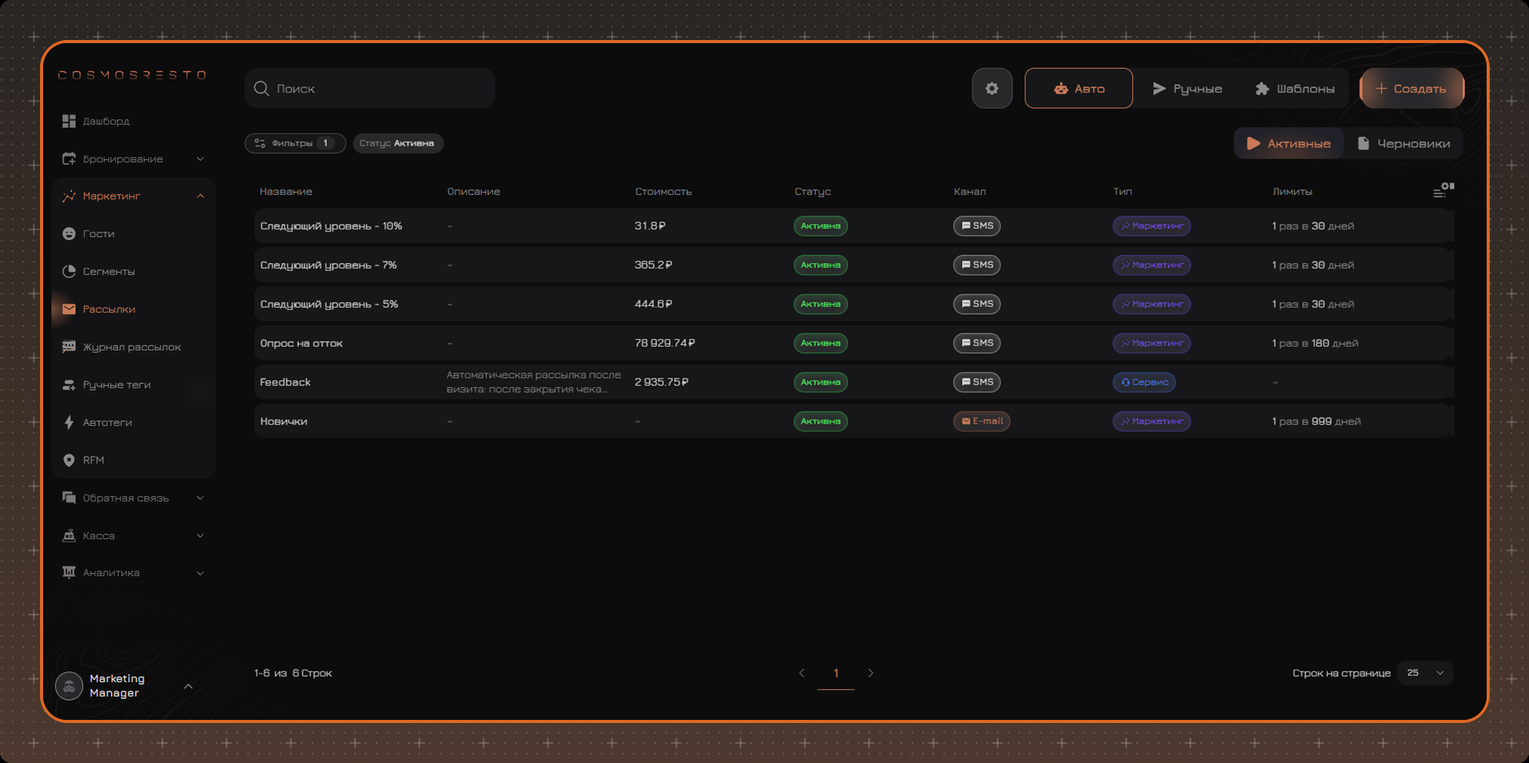
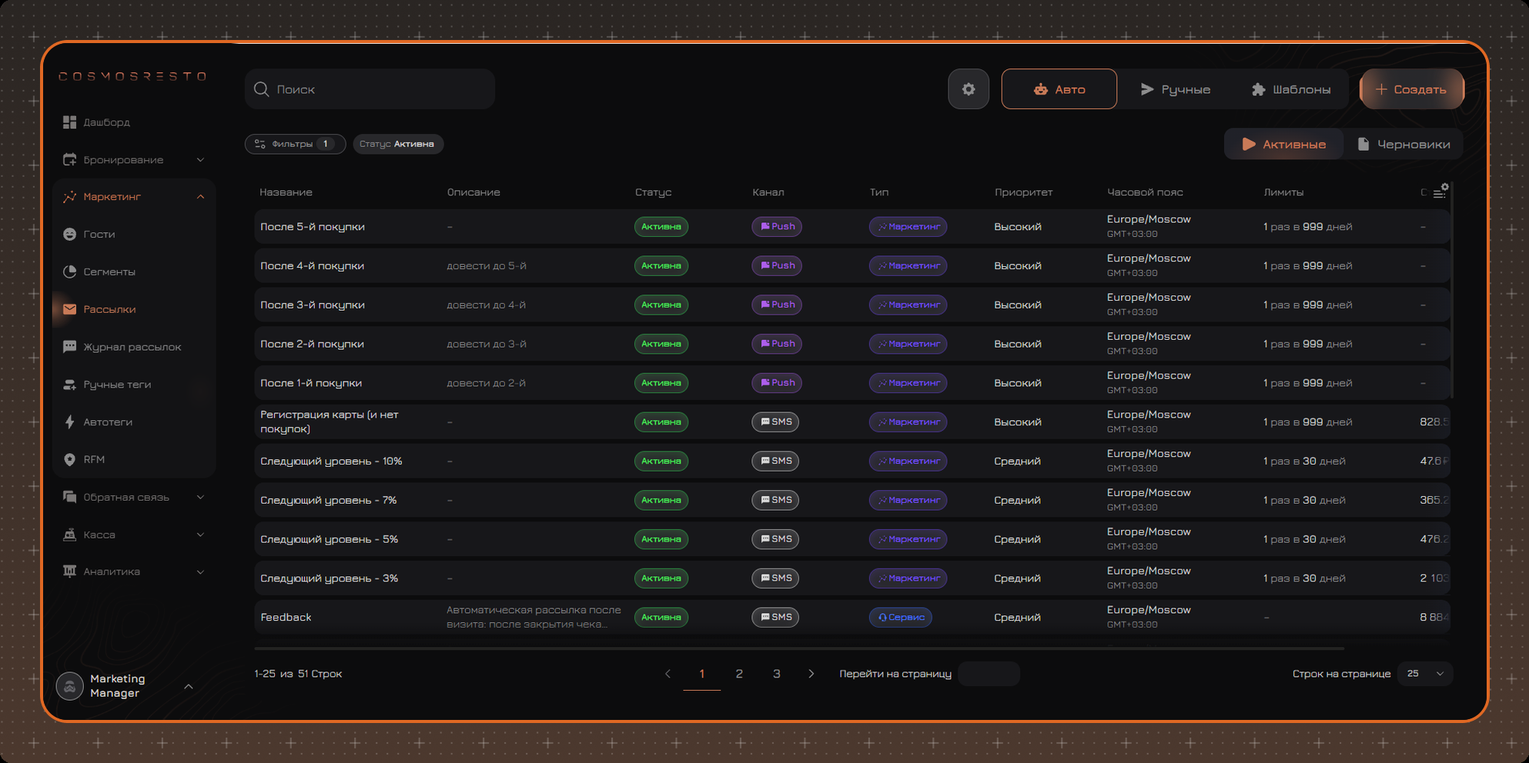
Marketing: рассылки - приоритет отправки, часовой пояс, отложенная отправка ручных рассылок RU и EN (CIMP-324, CIMP-325)

diff --git a/content/ru/marketing/mailings/info.md b/content/ru/marketing/mailings/info.md
@@ -74,41 +74,58 @@ updatedAt: 2026-08-28
 - Рассылки с **Экстра приоритетом** отправляются без учета общих ограничений
 
 
+## Приоритет отправки
+
+При создании рассылки в поле **Приоритет** выбирается **Высокий**, **Средний** или **Низкий** приоритет. По умолчанию установлен **Средний**.
+
+Приоритет определяет, какую долю отправок получает рассылка, если одновременно отправляются несколько рассылок одного канала. Сообщения уходят пачками: раз в 2 минуты по каждому каналу отправляется пачка, размер которой зависит от канала. В каждой пачке 70% мест отводится рассылкам с высоким приоритетом, 20% - со средним и 10% - с низким. Поэтому рассылки с низким приоритетом не ждут окончания остальных, а отправляются параллельно, только медленнее. Если сообщений какого-то уровня меньше, чем его доля, свободные места достаются сообщениям с более высоким приоритетом. Приоритет учитывается одинаково для автоматических и ручных рассылок.
+
+Например, идет большая ручная Push-рассылка с низким приоритетом, и в это время срабатывает автоматическая Push-рассылка с высоким приоритетом. Сообщения автоматической рассылки занимают большую часть каждой пачки и уходят быстрее, а ручная рассылка продолжает отправляться параллельно.
+
+Особенности:
+
+- Приоритет сравнивается только между рассылками одного канала. Например, SMS-рассылка не влияет на очередь Push-рассылок.
+- Приоритет не влияет на ограничения. Чтобы рассылка отправлялась без учета общих ограничений, используется **Экстра приоритет**.
+- У запущенной ручной рассылки изменить приоритет невозможно.
+- Если изменить приоритет автоматической рассылки, новое значение применяется только к новым отправкам.
+
+
 ## Настройки таблицы
 
 Для изменения набора отображаемых колонок нажмите кнопку настройки таблицы в правом верхнем углу.
 
 В открывшейся панели можно:
 
-✔ Выбрать отображаемые колонки  
-✔ Изменить порядок колонок — перетащите колонку в списке за значок слева от ее названия  
-✔ Закрепить нужные колонки — нажмите на значок булавки справа от названия колонки. Закрепленные колонки перемещаются в начало таблицы  
-✔ Вернуть настройки по умолчанию с помощью команды **Сбросить к начальным значениям**
+- Выбрать отображаемые колонки.
+- Изменить порядок колонок - перетащите колонку в списке за значок слева от ее названия.
+- Закрепить нужные колонки - нажмите на значок булавки справа от названия колонки. Закрепленные колонки перемещаются в начало таблицы.
+- Вернуть настройки по умолчанию с помощью команды **Сбросить к начальным значениям**.
 
+[[gallery gap=12 layout=carousel]]
+![mailings](/ru/images/mailings/column-auto.png)
 ![mailings](/ru/images/mailings/column.png)
+[[/gallery]]
 
 [[delimiter rows=1]]
 
-В таблице рассылок отображаются следующие колонки:
+По умолчанию в таблице отображаются следующие колонки:
 
-- **Название** 
-- **Описание** 
-- **Статус** — текущее состояние рассылки. Автоматическая рассылка может быть **Активной** или **На паузе**, ручная — **В процессе** или **Завершена**. У черновиков статуса нет
-- **Тип рассылки** — **Массовая**, **Маркетинг** или **Сервис**
-- **Канал связи** — способ отправки сообщения
-- **Локации & группы** 
-- **Дата создания** 
-- **Автор** 
-- **Последнее обновление** 
-- **Стоимость** — сколько стоили все отправки рассылки: у автоматической рассылки за все время работы, у ручной — сумма всех отправок. Стоимость считается только для SMS, для других каналов отображается прочерк. Стоимость рассылки также отображается на странице рассылки рядом с ее названием
+- **Название**
+- **Описание**
+- **Статус** - текущее состояние рассылки. Автоматическая рассылка может быть **Активной** или **На паузе**, ручная - **В процессе**, **Завершена** или **Остановлена**. У черновиков статуса нет.
+- **Кол-во гостей** - только для ручных рассылок. Количество гостей, отобранных по условиям рассылки в момент запуска.
+- **Канал** - способ отправки сообщения.
+- **Тип** - **Массовая**, **Маркетинг** или **Сервис**.
+- **Приоритет** - **Высокий**, **Средний** или **Низкий**, подробнее в разделе **[Приоритет отправки](#приоритет-отправки)**.
+- **Часовой пояс** - часовой пояс, по которому работает расписание рассылки. Если автоматическая рассылка работает по часовому поясу локации, в которой произошло событие, отображается **Часовой пояс события**.
+- **Лимиты** - только для автоматических рассылок. Собственные ограничения рассылки в формате «N раз в N дней». Если ограничения не настроены, отображается прочерк.
+- **Стоимость** - сколько стоили все отправки рассылки: у автоматической рассылки за все время работы, у ручной - сумма всех отправок. Стоимость считается только для SMS, для других каналов отображается прочерк. Стоимость рассылки также отображается на странице рассылки рядом с ее названием.
 
-Только для автоматических рассылок:
+Дополнительно можно включить следующие колонки. При включении они отображаются в таблице в соответствии с порядком колонок в настройках:
 
-- **Лимиты рассылки** — собственные ограничения рассылки в формате «N раз в N дней 1 гостю». Если ограничения не настроены, отображается прочерк
-
-Только для ручных рассылок:
-
-- **Охват гостей** — количество гостей, отобранных по условиям рассылки в момент запуска
+- **Автор**
+- **Дата создания**
+- **Последнее обновление**
 
 > **Примечание.** Настройки таблицы сохраняются после обновления страницы. После выхода из системы настройки сбрасываются.
 

diff --git a/content/en/marketing/mailings/info.md b/content/en/marketing/mailings/info.md
@@ -73,41 +73,58 @@ To configure general limits on the number of messages sent to each guest, click 
 - Mailings with **Extra Priority** are sent without taking the general limits into account
 
 
+## Sending Priority
+
+When creating a mailing, select **High**, **Medium**, or **Low** in the **Priority** field. The default value is **Medium**.
+
+The priority determines what share of sending a mailing gets when several mailings of the same channel are being sent at the same time. Messages are sent in batches: every 2 minutes, one batch is sent for each channel, and the batch size depends on the channel. In each batch, 70% of the places are reserved for high-priority mailings, 20% for medium-priority mailings, and 10% for low-priority mailings. That is why low-priority mailings do not wait for the others to finish - they are sent in parallel, just more slowly. If a priority level has fewer messages than its share, the free places go to messages with a higher priority. The priority works the same way for Auto and Manual mailings.
+
+For example, a large low-priority Manual Push mailing is being sent, and at the same time a high-priority Auto Push mailing is triggered. Messages of the Auto mailing take most of each batch and are sent faster, while the Manual mailing keeps being sent in parallel.
+
+Specifics:
+
+- Priority is compared only between mailings of the same channel. For example, an SMS mailing does not affect the Push mailing queue.
+- Priority does not affect limits. To send a mailing without taking the general limits into account, use **Extra Priority**.
+- The priority of a started Manual mailing cannot be changed.
+- If you change the priority of an Auto mailing, the new value applies only to new messages.
+
+
 ## Table Settings
 
 To change the displayed columns, click the table settings button in the upper-right corner.
 
 In the panel that opens, you can:
 
-✔ Select the columns to display  
-✔ Change the column order — drag a column in the list by the icon to the left of its name  
-✔ Pin the required columns — click the pin icon to the right of the column name. Pinned columns move to the beginning of the table  
-✔ Restore the default settings using **Reset to Default**
+- Select the columns to display.
+- Change the column order - drag a column in the list by the icon to the left of its name.
+- Pin the required columns - click the pin icon to the right of the column name. Pinned columns move to the beginning of the table.
+- Restore the default settings using **Reset to Default**.
 
+[[gallery gap=12 layout=carousel]]
+![Mailings](/en/images/mailings/column-auto-en.png)
 ![Mailings](/en/images/mailings/column-en.png)
+[[/gallery]]
 
 [[delimiter rows=1]]
 
-The mailing table contains the following columns:
+By default, the table displays the following columns:
 
 - **Name**
 - **Description**
-- **Status** — the current status of the mailing. An Auto mailing can be **Active** or **On pause**, while a Manual mailing can be **In progress** or **Finished**. Draft mailings do not have a status
-- **Type** — **Mass**, **Marketing**, or **Service**
-- **Channel** — the channel used to send the message
-- **Locations & Groups**
-- **Created At**
+- **Status** - the current status of the mailing. An Auto mailing can be **Active** or **On pause**, while a Manual mailing can be **In progress**, **Finished** or **Stopped**. Draft mailings do not have a status.
+- **Guest Amount** - for Manual mailings only. The number of guests selected based on the mailing conditions at the time the mailing is launched.
+- **Channel** - the channel used to send the message.
+- **Type** - **Mass**, **Marketing**, or **Service**.
+- **Priority** - **High**, **Medium**, or **Low**, see **[Sending Priority](#sending-priority)**.
+- **Timezone** - the timezone used by the mailing schedule. If an Auto mailing follows the timezone of the location where the event occurred, **Trigger Event Timezone** is displayed.
+- **Limits** - for Auto mailings only. Individual mailing limits in the format `N times per N days`. If no limits are configured, a dash is displayed.
+- **Cost** - the total cost of all messages sent by the mailing: for an Auto mailing, for the whole time it has been running; for a Manual mailing, the sum of all messages sent. The cost is calculated only for SMS; for other channels, a dash is displayed. The mailing cost is also shown on the mailing page next to its name.
+
+The following columns can also be enabled. When enabled, they are displayed in the table according to the column order in the settings:
+
 - **Author**
+- **Created At**
 - **Last Update**
-- **Cost** — the total cost of all messages sent by the mailing: for an Auto mailing, for the whole time it has been running; for a Manual mailing, the sum of all messages sent. The cost is calculated only for SMS; for other channels, a dash is displayed. The mailing cost is also shown on the mailing page next to its name
-
-For Auto mailings only:
-
-- **Limits** — individual mailing limits in the format `N times per N days to 1 guest`. If no limits are configured, a dash is displayed
-
-For Manual mailings only:
-
-- **Guest Amount** — the number of guests selected based on the mailing conditions at the time the mailing is launched
 
 > **Note.** Table settings are saved after the page is refreshed. The settings are reset after you log out.
 

diff --git a/content/ru/marketing/mailings/create-manual.md b/content/ru/marketing/mailings/create-manual.md
@@ -30,10 +30,17 @@ updatedAt: 2026-08-28
   - **Один канал** - сообщение отправляется по одному выбранному каналу
   - **Каскад** - сообщение отправляется по нескольким каналам по очереди. Если выбран каскад, после основных деталей появляется шаг **Каскад**, где выбираются каналы и порядок доставки. Как работает каскад - в статье **[Создание автоматической рассылки](https://wiki.cosmosresto.ru/ru/marketing/mailings/create-auto/#каскад)**
 - **Экстра приоритет** — включите, если рассылка должна отправляться без учета общих лимитов
+- **Приоритет** - доля отправок, которую получает рассылка, если одновременно отправляются несколько рассылок, подробнее в статье **[Информация о рассылках](/ru/marketing/mailings/info/#приоритет-отправки)**. После запуска приоритет изменить невозможно.
 - **Название**
+- **Часовой пояс** - по этому часовому поясу работает расписание отложенной отправки.
 - **Сегменты**
 - **Описание**
 - **Фильтры**
+- **Отложенная отправка** - включите, чтобы сообщения отправлялись не сразу после запуска:
+  - **Простая задержка** - отправка начинается через заданный интервал после запуска рассылки.
+  - **Расписание** - сообщения отправляются только в выбранные дни недели и временной интервал.
+
+Отложенная отправка полезна для больших рассылок, отправка которых может занять несколько часов. При выборе **Расписание** сообщения, которые не успели отправиться до конца разрешенного интервала, отправляются в следующий разрешенный интервал, а не ночью. Расписание работает по часовому поясу, выбранному в поле **Часовой пояс**. Он указан в подсказке под расписанием.
 
 В нижней части страницы отображается список гостей, соответствующих выбранным сегментам и фильтрам. После изменения сегментов или фильтров нажмите **Обновить**, чтобы обновить список и количество гостей.
 
@@ -75,7 +82,7 @@ updatedAt: 2026-08-28
 После запуска настройки ручной рассылки становятся недоступны для редактирования.
 [[/info]]
 
-Рассылка перемещается из **Черновиков** в **Активные** и получает статус **В процессе**.
+Рассылка перемещается из **Черновиков** в **Активные** и получает статус **В процессе**. Если включена отложенная отправка, сообщения отправляются после заданной задержки или в разрешенное расписанием время.
 
 Когда все отправки получат финальный статус, статус рассылки изменится на **Завершена**. Количество доставленных сообщений при этом может отличаться от количества отправленных.
 

diff --git a/content/ru/marketing/mailings/create-auto.md b/content/ru/marketing/mailings/create-auto.md
@@ -31,7 +31,9 @@ updatedAt: 2026-08-28
   - **Один канал** - сообщение отправляется по одному выбранному каналу
   - **Каскад** - сообщение отправляется по нескольким каналам по очереди, подробнее в разделе **[Каскад](#каскад)**
 - **Экстра приоритет** — включите, если рассылка должна отправляться без учета общих лимитов
+- **Приоритет** - доля отправок, которую получает рассылка, если одновременно отправляются несколько рассылок, подробнее в статье **[Информация о рассылках](/ru/marketing/mailings/info/#приоритет-отправки)**.
 - **Название**   
+- **Часовой пояс** - по этому часовому поясу работает расписание отложенной отправки.
 - **Сегменты**  
 - **Описание**  
 - **Установить ограничения**  
@@ -59,6 +61,8 @@ updatedAt: 2026-08-28
 
 При выборе **Расписание** укажите дни недели и время, в которое разрешена отправка. Если триггер сработал за пределами этого интервала, отправка переносится на ближайшее доступное время.
 
+Расписание работает по часовому поясу, выбранному в поле **Часовой пояс** в основных деталях. Он указан в подсказке под расписанием.
+
 ### Триггеры
 
 ![triggers](/ru/images/mailings/auto-triggers.png)
@@ -79,6 +83,15 @@ updatedAt: 2026-08-28
 **Регистрация гостя в программе лояльности** - рассылка отправляется, когда гость регистрируется в программе лояльности. Это касается и новых гостей, и гостей, которые уже были в системе до регистрации. Создание гостя без регистрации в программе лояльности рассылку не запускает.
 
 **Закрытый чек гостя** - рассылка отправляется, когда закрывается чек гостя.
+
+![timezone](/ru/images/mailings/auto-timezone.png)
+
+[[delimiter rows=1]]
+
+Если включена **Отложенная отправка** с **Расписанием**, в поле **Выполнять рассылку по** выберите, по какому часовому поясу работает расписание:
+
+- **Часовой пояс рассылки** - по часовому поясу из основных деталей рассылки.
+- **Часовой пояс события** - по часовому поясу локации, в которой закрыт чек. Подходит, если локации находятся в разных часовых поясах: например, при расписании с 10:00 до 20:00 гости каждой локации получат сообщение в это время по местному часовому поясу.
 
 **Начисление бонусов** - рассылка отправляется, когда гостю начисляются бонусы.
 

diff --git a/content/en/marketing/mailings/create-manual.md b/content/en/marketing/mailings/create-manual.md
@@ -18,10 +18,6 @@ To create a Manual mailing, go to **Marketing → Mailings**, select **Manual**,
 
 [[delimiter rows=1]]
 
-![Guests List](/en/images/mailings/manual-guests-en.png)
-
-[[delimiter rows=1]]
-
 In the first step, configure the main mailing settings:
 
 - **Type**
@@ -32,10 +28,17 @@ In the first step, configure the main mailing settings:
   - **One Channel** - the message is sent through one selected channel
   - **Cascade** - the message is sent through several channels one after another. If Cascade is selected, the **Cascade** step appears after the main details, where you select the channels and the delivery order. How a cascade works is described in **[Create Auto Mailing](https://wiki.cosmosresto.ru/en/marketing/mailings/create-auto/#cascade)**
 - **Extra Priority** — enable this option if the mailing should be sent without taking the general limits into account
+- **Priority** - the share of sending this mailing gets when several mailings are sent at the same time, see **[Mailings](/en/marketing/mailings/info/#sending-priority)**. The priority cannot be changed after the mailing is started.
 - **Name**
+- **Timezone** - the timezone used by the delayed sending schedule.
 - **Segments**
 - **Description**
 - **Filters**
+- **Delayed Sending** - enable this option so that messages are not sent immediately after the start:
+  - **Simple Delay** - sending starts after the specified interval after the mailing is started.
+  - **Schedule** - messages are sent only on the selected days of the week and within the specified time interval.
+
+Delayed sending is useful for large mailings that may take several hours to send. When **Schedule** is selected, messages that were not sent before the end of the allowed interval are sent in the next allowed interval, not at night. The schedule follows the timezone selected in the **Timezone** field. It is shown in the hint below the schedule.
 
 The list of guests matching the selected segments and filters is displayed at the bottom of the page. After changing segments or filters, click **Update** to refresh the list and the number of guests.
 
@@ -74,7 +77,7 @@ The confirmation window displays the final number of recipients. Click **Start**
 After the mailing is started, its settings can no longer be edited.
 [[/info]]
 
-The mailing moves from **Draft** to **Active** and receives the **In progress** status.
+The mailing moves from **Draft** to **Active** and receives the **In progress** status. If delayed sending is enabled, messages are sent after the specified delay or during the time allowed by the schedule.
 
 When all messages receive a final status, the mailing status changes to **Finished**. The number of delivered messages may differ from the number of sent messages.
 

diff --git a/content/en/marketing/mailings/create-auto.md b/content/en/marketing/mailings/create-auto.md
@@ -28,7 +28,9 @@ Configure the main mailing settings:
   - **One Channel** - the message is sent through one selected channel
   - **Cascade** - the message is sent through several channels one after another, see **[Cascade](#cascade)**
 - **Extra Priority** — enable this option if the mailing should be sent without taking the general limits into account
+- **Priority** - the share of sending this mailing gets when several mailings are sent at the same time, see **[Mailings](/en/marketing/mailings/info/#sending-priority)**.
 - **Name**
+- **Timezone** - the timezone used by the delayed sending schedule.
 - **Segments**
 - **Description**
 - **Set Mailing Limits**
@@ -56,6 +58,8 @@ Configure the conditions for triggering and sending the mailing:
 
 When **Schedule** is selected, specify the days of the week and the time interval during which messages can be sent. If the trigger occurs outside this interval, the message is postponed until the next available time.
 
+The schedule follows the timezone selected in the **Timezone** field in the main details. It is shown in the hint below the schedule.
+
 ### Triggers
 
 ![Triggers](/en/images/mailings/auto-triggers-en.png)
@@ -76,6 +80,15 @@ The recipient choice cannot be changed in an active mailing.
 **Guest Registration in Loyalty Program** - the mailing is sent when a guest registers in the loyalty program. This applies both to new guests and to guests who were already in the system before registering. Creating a guest without registering in the loyalty program does not trigger the mailing.
 
 **Closed Order** - the mailing is sent when the guest's order is closed.
+
+![timezone](/en/images/mailings/auto-timezone-en.png)
+
+[[delimiter rows=1]]
+
+If **Delayed Sending** with **Schedule** is enabled, select in the **Send mailing using** field which timezone the schedule follows:
+
+- **Mailing Timezone** - the timezone from the main details of the mailing.
+- **Trigger Event Timezone** - the timezone of the location where the order was closed. This is useful if the locations are in different timezones: for example, with a schedule from 10:00 to 20:00, guests of each location receive the message during these hours in their local time.
 
 **Bonus Accrual** - the mailing is sent when bonuses are accrued to the guest.
 
